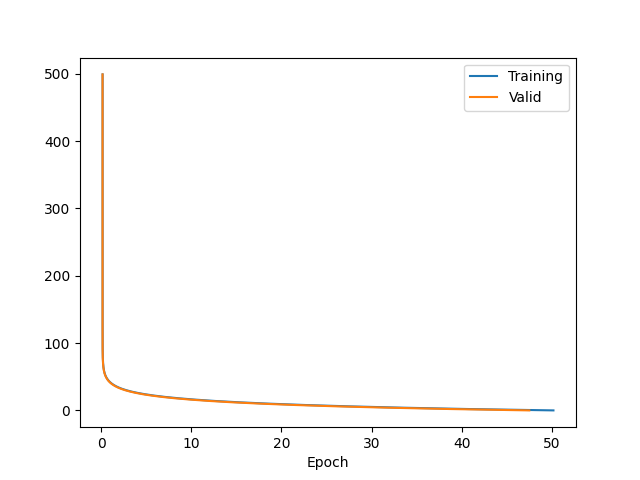
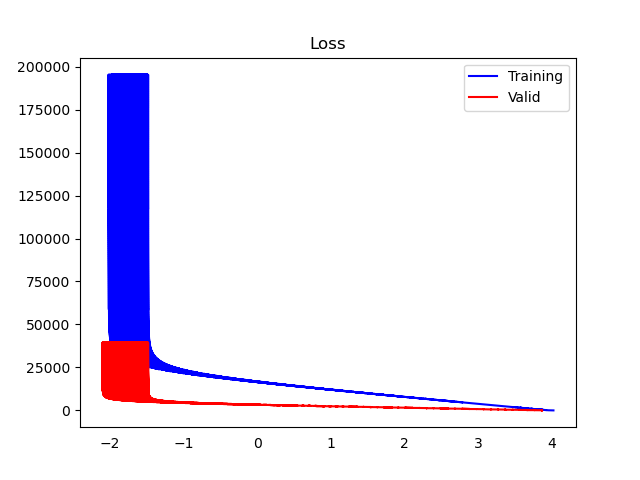
Update readme

diff --git a/hw1/utils.py b/hw1/utils.py
@@ -52,20 +52,25 @@ def vis_image(data, batch_first=False, save_flg=False):
     plt.imshow(data, cmap=plt.get_cmap('gray'))
     plt.show()
    
-    
-def vis_loss(train_loss, valid_loss, save_flg=False):
-    if train_loss is not None: plt.plot(train_loss, range(len(train_loss)), label='Training')
-    if valid_loss is not None: plt.plot(valid_loss, range(len(valid_loss)), label='Valid')   
-    # plt.xlabel('Epoch') 
-    plt.legend()
+
+def vis_loss(train_loss, valid_loss, epoch, save_flg=False):
+    # Create a new figure with a given DPI
+    plt.figure(dpi=100)
+
+    # Plot the two curves with different colors and labels
+    plt.plot(np.log(train_loss), range(len(train_loss)), color='blue', label='Training')
+    plt.plot(np.log(valid_loss), range(len(valid_loss)), label='Valid', color='red')
+
+    # Hide the x-tick
+    plt.tick_params(axis='x', which='both', bottom=False)
+
+    # Set the title and legend of the figure
+    plt.title('Loss')
+    plt.legend(loc='upper right')
+
+    # Show the figure
     if save_flg: plt.savefig('./loss.png')
     else: plt.show()
-    # # Create a figure and axis object
-    # fig, ax = plt.subplots()
-
-    # # Plot the curves
-    # ax.plot(x, y1, label='')
-    # ax.plot(x, y2, label='')
     
 def vis_acc(acc_list, epoch, save_flg=False):
     plt.figure()

diff --git a/hw1/train.py b/hw1/train.py
@@ -94,6 +94,6 @@ def main(model, epoch=EPOCH, lr_start=L_RATE, reg_term=LAMBDA):
 
 if __name__ == "__main__":
     _, acc, acc_ls, train_loss_ls, val_loss_ls = main(class_model)
-    vis_loss(np.array(train_loss_ls).ravel(), val_loss_ls, save_flg=True)
+    vis_loss(np.array(train_loss_ls).ravel(), np.array(val_loss_ls).ravel(), EPOCH, save_flg=True)
     vis_acc(acc_ls, EPOCH, save_flg=True)
     
